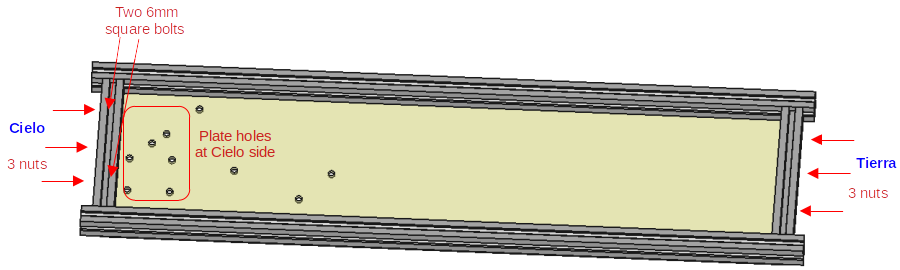
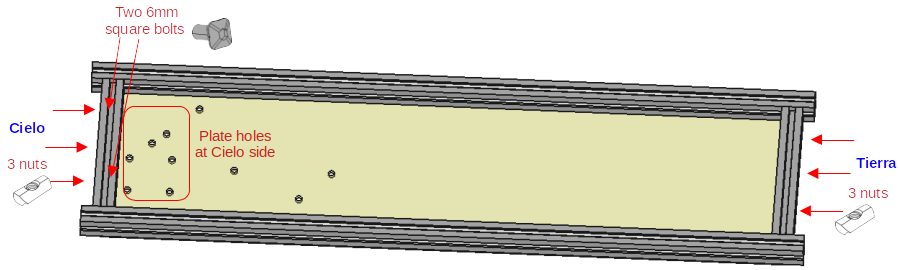
Ongoing assembly documentation

Changed region(s): [[0.1867, 0.0593, 0.28, 0.1778], [0.0, 0.6519, 0.0622, 0.7704], [0.9333, 0.7704, 0.9644, 0.8593]]

diff --git a/assembly/readme.md b/assembly/readme.md
@@ -1,7 +1,9 @@
 # Assembly instructions
 
-Before assembling the cubesat, have all the electronics connected and working. 
+Before assembling the cubesat, have all the electronics connected and make sure that they work. Disconnect the batteries and electronics before the assembly. 
+
 Check the CAD files, and get all the 3D pieces printed and the plates milled.
+
 Get all the components of the [BOM](./../bom_bentayga_cubesat.ods)
 Have pliers, Allen keys, screwdrivers. Silicone would be very useful to place the t-slot nuts and prevent them from sliding.
 
@@ -13,24 +15,26 @@ The cubesat has 6 faces, they will be named according to this reference:
 
 Take into account that once you close the profiles, you cannot place square bolts and in many times even nuts.
 
-The following picture it shows that you cannot add any nut or bolt in the blue profile. In the green profile you can add nuts, but not bolts in the inner slot.
+The following picture shows that you cannot add any nut or bolt in the blue profile. In the inner slot of the green profile you can add nuts, but not bolts.
 
-Therefore, before closing a profile think if all the nuts and bolts are place, and what you need to attach to the profile.
+Therefore, before closing a profile think if all the nuts and bolts are placed, and what are you going to attach to the profile.
 
 ![nut_warning](./imgs/cad/00_warning.png)
 
 ## Place nuts in 80mm-profiles
 
-There are eight 80mm-profiles at the two squared faces of the cubesat. The figure shows one of this faces.
+There are eight 80mm-profiles at the two squared faces of the cubesat (four at each face). The figure shows one of this faces.
 
 ![nuts 8mm](./imgs/cad/01_nuts_80mm_profiles.png)
 
 All these profiles have 3 sliding nuts in one side and 2 in the other (you could put 4 but it is not necessary). These nut holes are marked in turquoise circles in the figure. The red circles indicate that these nuts are optional.
 
-Place in two consecutive sides of these eight profiles 2 and 3 sliding nuts. We recommend that you align these nuts with the holes of the plates and put some silicone to avoid the nuts to slide. So they are easier to screw with the bolts.
-It is not necessary to be super exact, since the silicone leaves room for moving the slides a little bit. Yoo don't need to wait until de silicone is dry.
+Place 2 and 3 sliding nuts in two consecutive sides of these eight profiles.
 
-The follwing pictures shows the process.
+We recommend that you align these nuts with the holes of the plates and put some silicone to prevent the nuts from sliding. So they are easier to screw with the bolts.
+It is not necessary to be super exact, since the silicone leaves room for moving the nuts a little bit. You don't need to wait until the silicone is dry.
+
+The following pictures shows the process.
 
 ![nuts 8mm](./imgs/pic/01_nuts_80mm_profiles.jpg)
 
@@ -55,11 +59,115 @@ Now put the Down plate over the four profiles attached to it, and screw the M3 4
 
 Place the long profiles to be symmetrical, leaving the same distance in each side.
 
-![Down](./imgs/cad/02_down_assembly.png)
+![Down CAD](./imgs/cad/02_down_assembly.png)
 
-The result should be like this
+The result should look like this
 
-![Down](./imgs/pic/02_down.jpg)
+![Down picture](./imgs/pic/02_down.jpg)
+
+
+## Attach the I2C hub to the Down plate
+
+Use three M2 bolts around 6mm long. We have used one steel bolt and nut, and the other two plastic, but you can choose the material.
+
+![I2C Hub cad](./imgs/cad/03_i2c_hub.png)
+
+Picture from the bottom:
+
+![I2C Hub cad](./imgs/pic/03_i2c_hub.jpg)
+
+## Attach the Jetson Nano
+
+First attach the Jetson Nano to its 3D printed support.
+
+Then take two M3 square headed 6mm bolts and attach the lower part of the Jetson Nano support to it. Then put two M3 self locking nuts, tighten but not so much so you can still slide the Jetson Nano along the profile.
+
+![Jetson CAD](./imgs/cad/04_jetson.png)
+
+Picture from Top:
+
+![Jetson picture](./imgs/pic/04_jetson.jpg)
+
+## Attach the sensors support
+
+First attach the four boards to the support with M2 plastic bolts and nuts.
+
+-  MKR GPS Shield: connect to the ESLOV connector https://docs.arduino.cc/hardware/mkr-gps-shield
+-  Grove - Temp&Humi&Barometer Sensor (BME280) https://www.seeedstudio.com/Grove-BME280-Environmental-Sensor-Temperature-Humidity-Barometer.html
+- Two Grove - DS1307 RTC (Real Time Clock) for Arduino https://www.seeedstudio.com/Grove-RTC-DS1307.html
+
+Attach the bottom of the support to the profile. There should be two 6mm square headed bolts in this profile, as indicated in the assembling of the Down face.
+
+Put the self locking nuts as in the Jetson Nano support, but not too tight to be able to slide the support later.
+
+
+![Sensors CAD](./imgs/cad/05_sensors.png)
+
+Picture from back:
+
+![Sensors back picture](./imgs/pic/05_sensors_back.jpg)
+
+Picture from Top:
+
+![Sensors top picture](./imgs/pic/05_sensors_top.jpg)
+
+## Attach the Arduino stack
+
+Before attaching the support, **insert four sliding nuts in the profile**. They will be needed for the small camera support, and to contain the battery box.
+
+Also insert two sliding nuts in the opposite profile (Right side) to contain the battery box.
+
+First the Arduino stack should be mounted, also make sure that the components in the MKR MEM Shield have been soldered, and from this shield go the wires to the Jetson Nano and MOSFET for the heat pads (which is soldered in a different board).
+
+The stack of Arduino boards is the following from bottom to top:
+
+- MKR connector: https://docs.arduino.cc/hardware/mkr-connector-carrier
+- MKR WAN 1310: https://docs.arduino.cc/hardware/mkr-wan-1310
+- MKR MEM SHIELD: https://docs.arduino.cc/hardware/mkr-mem-shield
+- MKR IMU SHIELD: https://docs.arduino.cc/hardware/mkr-imu-shield
+
+Attach this stack to the 3D printed support and in the same way as the previous support, attach it to the profile with a 6mm M3 square headed bolt and a self locking nut. Do tighten the nut too much to allow sliding.
+
+![Arduino CAD](./imgs/cad/06_arduino.png)
+
+Picture from Top (the IMU shield was missing in the picture)
+
+![Arduino top picture](./imgs/pic/06_arduino.jpg)
+
+
+## Attach the multispectral camera
+
+Using four 12-mm square headed bolts and self locking nuts, attach the multispectral camera at the Tierra side as shown in the figure:
+
+![Multispectral camera CAD](./imgs/cad/07_multcamera.png)
+
+## Insert the battery box
+
+Just put it in place to check the dimensions
+
+![Battery box CAD](./imgs/cad/08_battery.png)
+
+## Attach the small camera support
+
+Fist attach the original camera support to the 3D printed support, using two M3 6mm counter sunk bolts with self locking nuts.
+
+Then use sliding nuts and tow hex button 4mm bolts to attach it to the profile. Do not tighten it to strong, so it can slide along the profile.
+
+
+![Small camera CAD](./imgs/cad/09_smallcamera.png)
+
+Notice how the original camera support is attached to the 3D printed support.
+
+
+![Small camera picture](./imgs/pic/09_smallcamera.jpg)
+
+
+
+
+
+
+
+
 
 
 
